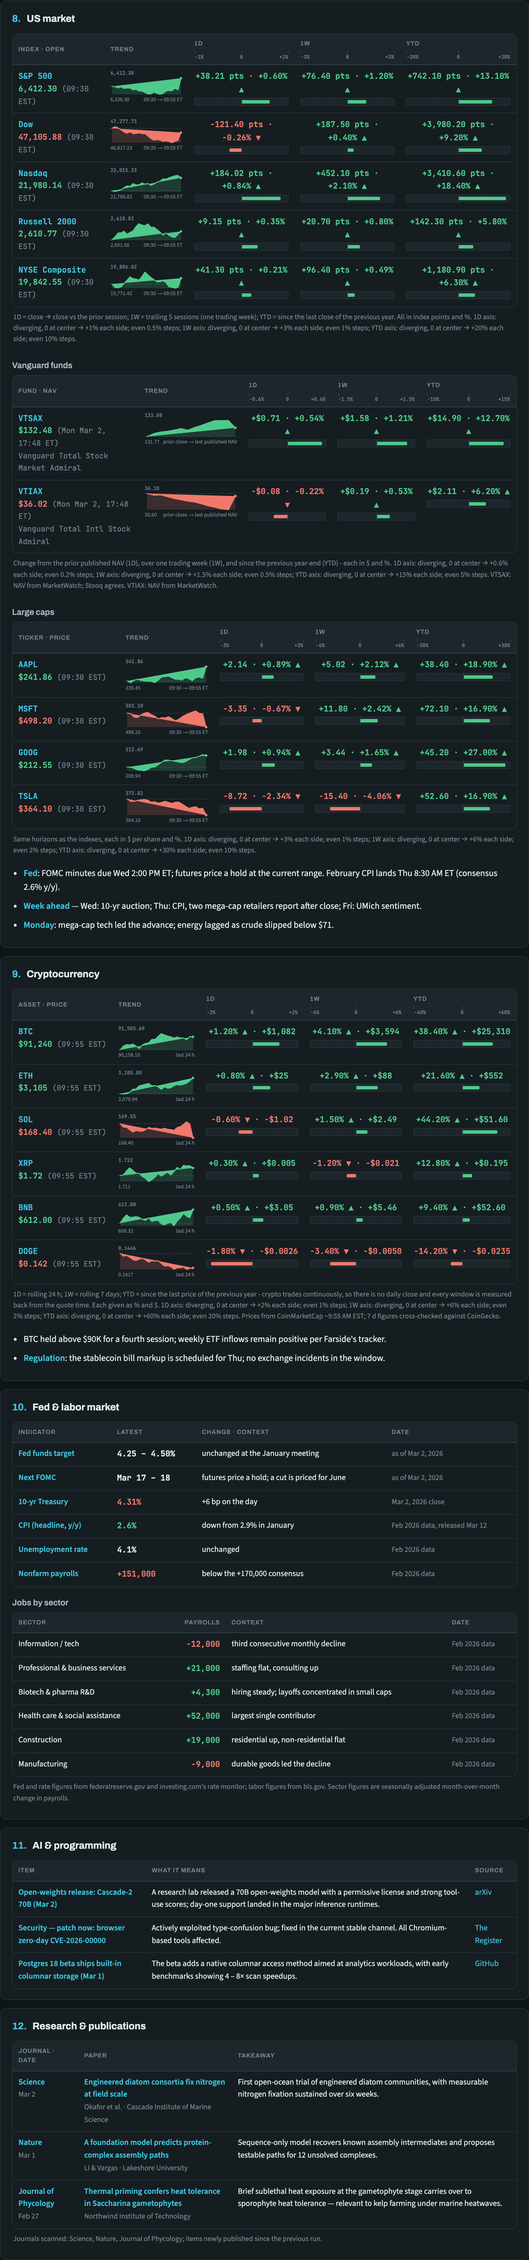
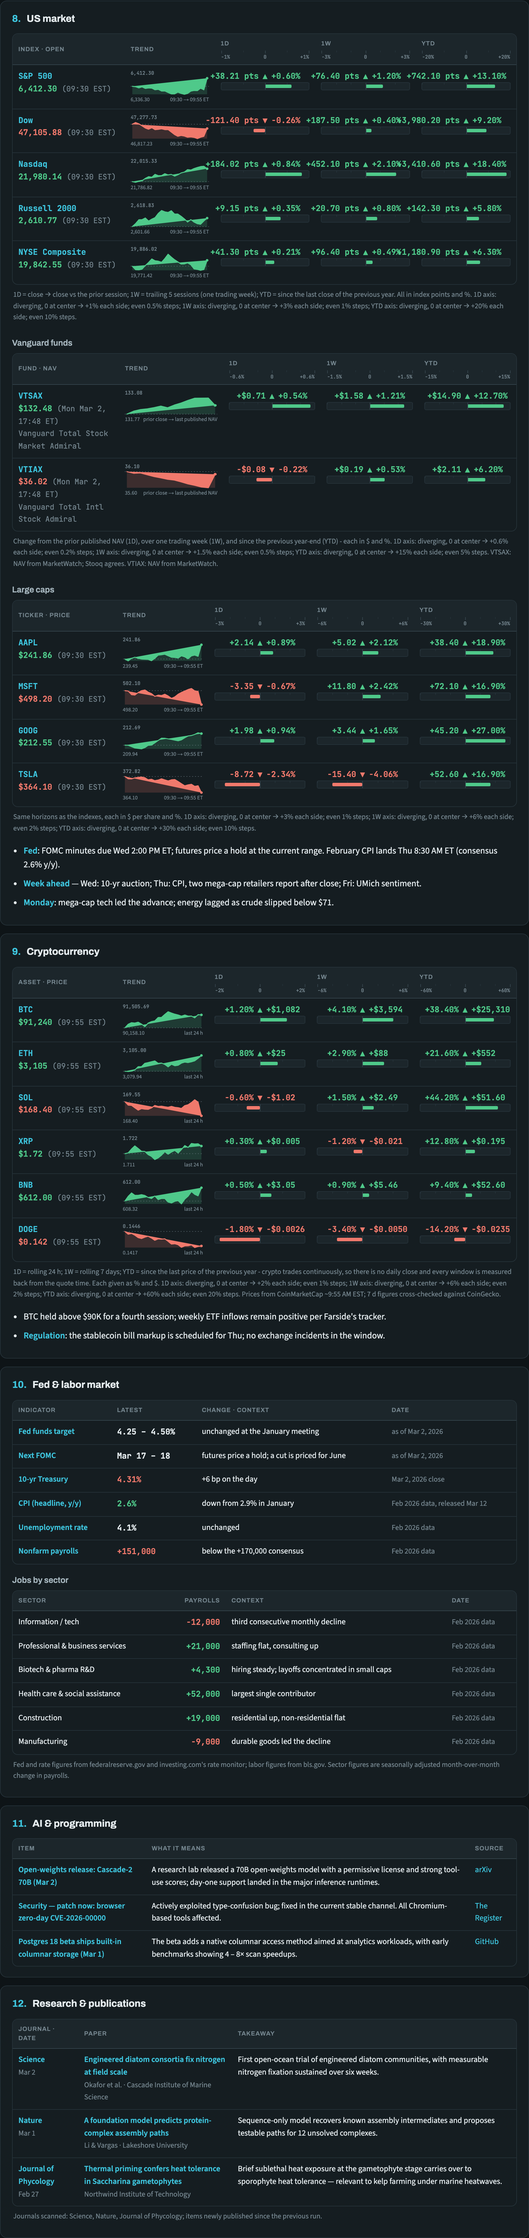
Put the arrow on the zero, and the column's name over its whole line
Three things the brief was asked for, each measured rather than eyeballed.

THE ARROW MOVES TO THE MIDDLE. "+38.21 pts · +0.60% ▲" put the one mark that
says WHICH WAY at the end of the text, wherever that happened to fall. It now
takes the separator's place — "+38.21 pts ▲ +0.60%" — pinned to 50%, the same
line the ruler's 0 and the bar's origin sit on, so direction and magnitude are
read from one column of pixels. The email lays the same figure out as three
cells, which is how it centres anything.

THE COLUMN'S NAME is centred over the LINE beneath it, not over the zero
inside that line. The line is not symmetric about its zero — "Out ←" is
shorter than "→ In, USD" — so a name centred on the zero reads as off-centre
against the text a person actually looks at, which is what it was reported as,
twice. The head is a centred flex line now and the name is centred over the
same box: 0.21px apart, measured over the glyphs. The ruler underneath still
puts its 0 exactly on the bars' origin; the head's own 0 is a reading aid and
sits where centring the line puts it.

THE SEVERITY STRIPE is inset 1px rather than 6, so the gap reads as a seam
between rows rather than a break, and the last one follows the table's own
rounded corner instead of stopping short of it.

The README gains the hovered trend as its own screenshot, since a still image
cannot otherwise show that the drawing answers a pointer.

diff --git a/brief/render.py b/brief/render.py
@@ -273,15 +273,24 @@ def detail_html_email(detail):
 
 
 def horizon_cell_file(amount, pct, axis, unit="", reverse=False):
-    """One horizon's figure centered over its bar, for the standalone file.
+    """One horizon's figure, with the direction arrow ON the axis's zero.
+
+    The two halves of the figure used to be joined by a middot and the arrow
+    tacked on the end, so the one mark that says WHICH WAY sat wherever the
+    text happened to end. It now takes the separator's place in the middle and
+    is pinned to 50% - the same line the ruler's 0 and the bars' origin sit on
+    - so the eye reads direction and magnitude from the same column of pixels.
 
     `reverse` puts the percentage first, which reads better where the absolute
     move is a price delta rather than index points.
     """
     cls = "dir-pos" if pct >= 0 else "dir-neg"
-    left = f"{pct_str(pct)} {arrow(pct)}" if reverse else f"{e(amount)}{' ' + unit if unit else ''}"
-    right = f"{e(amount)}" if reverse else f"{pct_str(pct)} {arrow(pct)}"
-    return (f'<span class="barfig"><span class="{cls} mono">{left} \u00b7 {right}</span></span>'
+    left = f"{pct_str(pct)}" if reverse else f"{e(amount)}{' ' + unit if unit else ''}"
+    right = f"{e(amount)}" if reverse else f"{pct_str(pct)}"
+    return (f'<span class="barfig trio {cls} mono">'
+            f'<span class="l">{left}</span>'
+            f'<span class="c">{arrow(pct)}</span>'
+            f'<span class="r">{right}</span></span>'
             + bar_div(pct, axis))
 
 
@@ -523,7 +532,10 @@ h3{{font-size:14.5px;font-weight:600;margin:16px 0 6px;color:var(--ink-2)}}
 /* The severity stripe is drawn INSIDE the cell, with a gap top and bottom, so
    two rows of the same severity do not fuse into one long bar. */
 tr.hp>td:first-child{{position:relative;padding-left:18px;--sev:var(--line-strong)}}
-tr.hp>td:first-child::before{{content:"";position:absolute;left:0;top:6px;bottom:6px;width:6px;background:var(--sev)}}
+tr.hp>td:first-child::before{{content:"";position:absolute;left:0;top:1px;bottom:1px;width:6px;background:var(--sev)}}
+/* the last stripe follows the wrapper's own corner, so the column of
+   colour ends where the table does rather than stopping short of it */
+tr.hp:last-child>td:first-child::before{{bottom:0;border-bottom-left-radius:9px}}
 tr.hp.warn>td:first-child{{--sev:var(--warning)}}
 tr.hp.neg>td:first-child{{--sev:var(--negative)}}
 tr.hp.info>td:first-child{{--sev:var(--accent)}}
@@ -580,15 +592,18 @@ td.num{{text-align:right;white-space:nowrap}}
 /* The name lives INSIDE the head, on the same 50% line as its "0", so no
    stylesheet can put them in boxes of different widths. text-indent gives back
    the trailing letter-space of the uppercase label. */
-.dhead.titled{{height:27px}}
-.dhead .t{{left:50%;transform:translateX(-50%);display:inline-block;letter-spacing:.08em;margin-right:-.08em;top:0}}
-.dhead.titled .l,.dhead.titled .c,.dhead.titled .r{{top:14px}}
+.dhead.titled{{height:27px;align-items:flex-end}}
+.dhead .t{{position:absolute;left:0;right:0;top:0;text-align:center;letter-spacing:.08em;text-indent:.04em}}
 /* The heading's "0" must sit exactly over the ruler's, so it takes the ruler's
    width rule rather than a fixed one: in a wider column a 150px heading centred
    its zero 65px left of the bars' zero, over negative territory. */
-.dhead{{position:relative;height:13px;width:100%;min-width:150px;max-width:280px}}
-.dhead span{{position:absolute;top:0;white-space:nowrap}}
-.dhead .l{{right:50%;margin-right:7px}} .dhead .c{{left:50%;transform:translateX(-50%)}} .dhead .r{{left:50%;margin-left:7px}}
+/* One centred line, with the name centred over the whole of it: the reader
+   reads "New this window" against "Out <- 0 -> In", not against the zero
+   inside it. The ruler underneath is what puts a 0 exactly on the bars'
+   origin, and it still does - this line's own 0 is a reading aid, and it sits
+   where centring the line puts it. */
+.dhead{{position:relative;height:13px;width:100%;min-width:150px;max-width:280px;display:flex;justify-content:center;gap:6px;white-space:nowrap}}
+.dhead span{{white-space:nowrap}}
 .daxis i{{position:absolute;top:0;height:3px;width:1px;background:var(--line)}}
 .daxis i.mj{{height:5px;background:var(--line-strong)}}
 .daxis span{{position:absolute;top:5px;font:500 8.5px 'JetBrains Mono',monospace;letter-spacing:0;text-transform:none;color:var(--ink-3);transform:translateX(-50%)}}
@@ -596,6 +611,13 @@ td.num{{text-align:right;white-space:nowrap}}
 .daxis-foot{{display:none}}
 /* the figure sits centered over the track, i.e. over the axis zero the bar grows from */
 .barfig{{display:block;text-align:center;margin-bottom:2px}}
+/* and its ARROW is what sits on the zero: the mark that says which way belongs
+   on the line the bar grows from, not at the end of the text. */
+.barfig.trio{{position:relative;height:19px;width:100%;min-width:150px;max-width:280px;margin:0 auto 2px}}
+.barfig.trio span{{position:absolute;top:0;white-space:nowrap}}
+.barfig.trio .l{{right:50%;margin-right:11px}}
+.barfig.trio .c{{left:50%;transform:translateX(-50%)}}
+.barfig.trio .r{{left:50%;margin-left:11px}}
 .cap{{font-size:12.5px;color:var(--ink-3);padding:8px 2px}}
 .tiles{{display:grid;grid-template-columns:repeat(3,1fr);gap:10px;margin-bottom:14px}}
 .tile{{background:var(--surface-2);border-radius:10px;padding:12px 14px}} .tile .v{{font-size:22px;font-weight:700;margin:2px 0}} .tile .d{{font-size:12.5px;color:var(--ink-3)}}
@@ -1343,8 +1365,8 @@ def large_caps_email():
     for tk, pr, a1, v1, a7, v7, ay, vy, *asof in STOCKS:
         ky = L["pos"] if vy >= 0 else L["neg"]
         rws.append([td(f'{lead(tk)}<br>{quote_cell_email(pr, v1, asof)}<br>{sp(f"YTD {pct_str(vy)} {arrow(vy)}", ky)}{spark_row_email(tk)}', mono=True),
-                    td(f'<div style="text-align:center">{sp(f"{e(a1)} {DOT} {pct_str(v1)} {arrow(v1)}", L["pos"] if v1 >= 0 else L["neg"])}</div>{em_bar_div(v1, STK_1D)}', mono=True),
-                    td(f'<div style="text-align:center">{sp(f"{e(a7)} {DOT} {pct_str(v7)} {arrow(v7)}", L["pos"] if v7 >= 0 else L["neg"])}</div>{em_bar_div(v7, STK_1W)}', mono=True)])
+                    td(em_trio(e(a1), v1, pct_str(v1), L["pos"] if v1 >= 0 else L["neg"]) + em_bar_div(v1, STK_1D), mono=True),
+                    td(em_trio(e(a7), v7, pct_str(v7), L["pos"] if v7 >= 0 else L["neg"]) + em_bar_div(v7, STK_1W), mono=True)])
     return h3("Large caps") + tbl([f'Ticker {DOT} price {DOT} YTD',
                                    th_axis("1D", pct_labels(STK_1D)), th_axis("1W", pct_labels(STK_1W))],
                                   rws, ["30%", "35%", "35%"])
@@ -1979,6 +2001,24 @@ def _em_bar(frac, col, right):
 
 def em_bar_div(pct, ax):
     return _em_bar(min(abs(pct) / ax[1], 1.0), L["pos"] if pct >= 0 else L["neg"], pct >= 0)
+def em_trio(left, pct, right, colour):
+    """The email's horizon figure, with the arrow over the axis's zero.
+
+    Three equal cells, the same shape as the axis header above it, so the
+    middle one - the arrow - lands on the same line as that header's "0" and
+    the centre of the bar below. The email cannot position anything, but it
+    can lay out a table.
+    """
+    # The parent cell already sets the mono family, so each cell here carries
+    # only what it must: the email is charged by the byte against a send-call
+    # ceiling, and three nested cells per figure is twelve per row.
+    c = f"padding:0;font-weight:600;color:{colour}"
+    return (f'<table width="100%" cellpadding="0" cellspacing="0"><tr>'
+            f'<td width="42%" align="right" style="{c}">{left}</td>'
+            f'<td width="16%" align="center" style="{c}">{arrow(pct)}</td>'
+            f'<td width="42%" align="left" style="{c}">{right}</td></tr></table>')
+
+
 def em_bar_money(amt, dirw, sign="", axis=None):
     side, cls = money_side(dirw, sign)
     col = {"pos": L["pos"], "neg": L["neg"], "neu": L["ink3"]}[cls]
@@ -2474,8 +2514,8 @@ def email_html(budget=None):
             for n, c, p1, v1, p7, v7, py, vy, *asof in MKT_ROWS:
                 ky = L["pos"] if vy >= 0 else L["neg"]
                 rws.append([td(f'{lead(n)}<br>{quote_cell_email(c, v1, asof)}<br>{sp(f"YTD {pct_str(vy)} {arrow(vy)}", ky)}{spark_row_email(n)}', mono=True),
-                            td(f'<div style="text-align:center">{sp(f"{e(p1)} pts · {pct_str(v1)} {arrow(v1)}", L["pos"] if v1 >= 0 else L["neg"])}</div>{em_bar_div(v1, MKT_24)}', mono=True),
-                            td(f'<div style="text-align:center">{sp(f"{e(p7)} pts · {pct_str(v7)} {arrow(v7)}", L["pos"] if v7 >= 0 else L["neg"])}</div>{em_bar_div(v7, MKT_7D)}', mono=True)])
+                            td(em_trio(f"{e(p1)} pts", v1, pct_str(v1), L["pos"] if v1 >= 0 else L["neg"]) + em_bar_div(v1, MKT_24), mono=True),
+                            td(em_trio(f"{e(p7)} pts", v7, pct_str(v7), L["pos"] if v7 >= 0 else L["neg"]) + em_bar_div(v7, MKT_7D), mono=True)])
             inner += tbl([f'Index · {quote_word().lower()} · YTD', th_axis("1D", pct_labels(MKT_24)), th_axis("1W", pct_labels(MKT_7D))], rws, ["30%", "35%", "35%"]) + cap(f"1D = close → close vs the prior session; 1W = trailing 5 sessions; YTD = since the previous year-end, shown as a figure because the email is capped at three columns. {axis_note(MKT_24, '1D axis')}; {axis_note(MKT_7D, '1W axis')}.")
         if FUNDS:
             rws = []
@@ -2483,8 +2523,8 @@ def email_html(budget=None):
             for tk, nm, nav, a1, v1, a7, v7, ay, vy, asof, note in FUNDS:
                 ky = L["pos"] if vy >= 0 else L["neg"]
                 rws.append([td(f'{lead(tk)}<br>{quote_cell_email(nav, v1, asof)}<br>{sp(f"YTD {pct_str(vy)} {arrow(vy)}", ky)}{spark_row_email(tk)}', mono=True),
-                            td(f'<div style="text-align:center">{sp(f"{e(a1)} · {pct_str(v1)} {arrow(v1)}", L["pos"] if v1 >= 0 else L["neg"])}</div>{em_bar_div(v1, FUND_1D)}', mono=True),
-                            td(f'<div style="text-align:center">{sp(f"{e(a7)} · {pct_str(v7)} {arrow(v7)}", L["pos"] if v7 >= 0 else L["neg"])}</div>{em_bar_div(v7, FUND_1W)}', mono=True)])
+                            td(em_trio(e(a1), v1, pct_str(v1), L["pos"] if v1 >= 0 else L["neg"]) + em_bar_div(v1, FUND_1D), mono=True),
+                            td(em_trio(e(a7), v7, pct_str(v7), L["pos"] if v7 >= 0 else L["neg"]) + em_bar_div(v7, FUND_1W), mono=True)])
             inner += h3("Vanguard funds") + tbl(['Fund · NAV · YTD', th_axis("1D", pct_labels(FUND_1D)), th_axis("1W", pct_labels(FUND_1W))], rws, ["30%", "35%", "35%"]) + cap("Change from the prior published NAV (1D), over one trading week (1W), and since the previous year-end (YTD). " + " ".join(f"{tk}: {note}" for tk, nm, nav, a1, v1, a7, v7, ay, vy, asof, note in FUNDS))
         if STOCKS:
             inner += large_caps_email()
@@ -2500,8 +2540,8 @@ def email_html(budget=None):
             for n, pr, v1, a1, v7, a7, vy, ay, *asof in CRYPTO_ROWS:
                 ky = L["pos"] if vy >= 0 else L["neg"]
                 rws.append([td(f'{lead(n)}<br>{quote_cell_email(pr, v1, asof)}<br>{sp(f"YTD {pct_str(vy)} {arrow(vy)}", ky)}{spark_row_email(n)}', mono=True),
-                            td(f'<div style="text-align:center">{sp(f"{pct_str(v1)} {arrow(v1)} · {e(a1)}", L["pos"] if v1 >= 0 else L["neg"])}</div>{em_bar_div(v1, CRY_24)}', mono=True),
-                            td(f'<div style="text-align:center">{sp(f"{pct_str(v7)} {arrow(v7)} · {e(a7)}", L["pos"] if v7 >= 0 else L["neg"])}</div>{em_bar_div(v7, CRY_7D)}', mono=True)])
+                            td(em_trio(pct_str(v1), v1, e(a1), L["pos"] if v1 >= 0 else L["neg"]) + em_bar_div(v1, CRY_24), mono=True),
+                            td(em_trio(pct_str(v7), v7, e(a7), L["pos"] if v7 >= 0 else L["neg"]) + em_bar_div(v7, CRY_7D), mono=True)])
             inner += tbl(['Asset · price · YTD', th_axis("1D", pct_labels(CRY_24)), th_axis("1W", pct_labels(CRY_7D))], rws, ["30%", "35%", "35%"]) + cap(f"1D = rolling 24 h; 1W = rolling 7 days; YTD = since the previous year-end — crypto trades continuously, so every window runs back from the quote time. {axis_note(CRY_24, '1D axis')}; {axis_note(CRY_7D, '1W axis')}. {CRYPTO_NOTE}")
         if CRYPTO_BULLETS:
             inner += '<ul style="margin:8px 0 0;padding-left:20px">' + "".join(em_li(b) for b in CRYPTO_BULLETS) + "</ul>"

diff --git a/tests/test_rendering.py b/tests/test_rendering.py
@@ -109,11 +109,15 @@ class _BrowserCase(unittest.TestCase):
           const z = zero.getBoundingClientRect();
           const hz = table.querySelector('th .dhead .c');
           const h = hz ? hz.getBoundingClientRect() : null;
-          const lb = table.querySelector('th .dcol .dlabel');
+          const lb = table.querySelector('th .dhead .t');
+          const ll = table.querySelector('th .dhead .l');
+          const rr = table.querySelector('th .dhead .r');
           const l = lb ? lb.getBoundingClientRect() : null;
           return {axis: box(ax), zeroCentre: z.left + z.width / 2,
                   headZero: h ? h.left + h.width / 2 : null,
                   labelCentre: l ? l.left + l.width / 2 : null,
+                  lineCentre: (ll && rr) ? (ll.getBoundingClientRect().left
+                                            + rr.getBoundingClientRect().right) / 2 : null,
                   bars: bars.map(b => {
                     const f = b.querySelector('.fill').getBoundingClientRect();
                     return {box: box(b), fill: [f.left, f.right],
@@ -129,15 +133,17 @@ class _BrowserCase(unittest.TestCase):
         # text its glyphs landed 30px left of the bars' zero, so the word "0"
         # sat over negative territory while the ruler beneath it was correct.
         # Checking only the ruler is what let that ship.
-        self.assertIsNotNone(r["headZero"],
-                             f"{what}: the heading must pin its own '0' to the axis")
-        self.assertAlmostEqual(r["headZero"], ax_c, delta=1.0,
-                               msg=f"{what}: the heading's '0' is not over the bars' zero")
-        # A labelled column centres its label on the same zero: left-aligned in
-        # the cell it drifted wherever the column was wide.
-        if r["labelCentre"] is not None:
-            self.assertAlmostEqual(r["labelCentre"], ax_c, delta=1.5,
-                                   msg=f"{what}: the column label is not centred on the axis")
+        # The heading line is centred AS A LINE - the reader reads "New this
+        # window" against the whole of "Out <- 0 -> In", not against the zero
+        # inside it - so its own 0 lands near the axis zero rather than on it.
+        # The ruler's 0, checked above, is what sits exactly on the bars' origin.
+        self.assertIsNotNone(r["headZero"], f"{what}: the heading must carry its own '0'")
+        self.assertAlmostEqual(r["headZero"], ax_c, delta=10.0,
+                               msg=f"{what}: the heading's '0' is nowhere near the axis")
+        # A labelled column centres its label over the heading line beneath it.
+        if r["labelCentre"] is not None and r["lineCentre"] is not None:
+            self.assertAlmostEqual(r["labelCentre"], r["lineCentre"], delta=1.5,
+                                   msg=f"{what}: the column label is not centred over its line")
         for n, bar in enumerate(r["bars"]):
             b_l, b_r, b_c = bar["box"]
             self.assertAlmostEqual(b_l, ax_l, delta=1.0,
@@ -505,16 +511,16 @@ if __name__ == "__main__":
     unittest.main(verbosity=2)
 
 
-class TestHeadingSitsOnItsZero(_BrowserCase):
-    """The money column's name describes the zero, so it sits over the zero.
+class TestHeadingSitsOverItsLine(_BrowserCase):
+    """The money column's name is read against the LINE under it.
 
-    Reported twice as still off. It is now positioned absolutely at the same
-    50% line the ruler puts its 0 on, rather than centred inside a box whose
-    width need not match the ruler's, and the trailing letter-space of the
-    uppercase label is given back with text-indent.
+    It was centred on the zero inside that line for a while, which looked off
+    precisely because the line is not symmetric about its zero: "Out <-" is
+    shorter than "-> In". The name is centred over the line as a whole now,
+    and the ruler below still puts a 0 exactly on the bars' origin.
     """
 
-    def test_the_labels_glyphs_centre_on_the_zero_not_just_its_box(self):
+    def test_the_labels_glyphs_centre_on_the_whole_line_below_it(self):
         """Measured over the text's own rects rather than the element's, since
         the gap between the two is exactly what kept drifting."""
         for width in (1840, 1280, 900):
@@ -526,15 +532,16 @@ class TestHeadingSitsOnItsZero(_BrowserCase):
               const r = document.createRange(); r.selectNodeContents(t);
               const rects = [...r.getClientRects()];
               const glyphC = (rects[0].left + rects[rects.length - 1].right) / 2;
-              const z = th.querySelector('.dhead .c').getBoundingClientRect();
-              return glyphC - (z.left + z.width / 2);
+              const l = th.querySelector('.dhead .l').getBoundingClientRect();
+              const rr = th.querySelector('.dhead .r').getBoundingClientRect();
+              return glyphC - (l.left + rr.right) / 2;
             }""")
             self.assertIsNotNone(d, f"no titled money column at {width}px")
             self.assertLessEqual(abs(d), 0.5,
-                                 f"the label's glyphs are {d:.2f}px off the zero @{width}px")
+                                 f"the label's glyphs are {d:.2f}px off the line @{width}px")
             pg.close()
 
-    def test_every_labelled_money_column_centres_on_its_zero(self):
+    def test_every_labelled_money_column_centres_on_its_line(self):
         for width in (1840, 1280, 1000, 820):
             pg = self._page(width)
             rows = pg.evaluate("""() => {
@@ -543,22 +550,26 @@ class TestHeadingSitsOnItsZero(_BrowserCase):
                 const lbl = th.querySelector('.dhead .t');
                 if (!lbl) continue;
                 const head = th.querySelector('.dhead .c');
+                const l = th.querySelector('.dhead .l');
+                const rr = th.querySelector('.dhead .r');
                 const axis = [...th.querySelectorAll('.daxis span')]
                                .find(s => s.textContent.trim() === '0');
-                if (!head || !axis) continue;
+                if (!head || !axis || !l || !rr) continue;
                 const c = el => { const r = el.getBoundingClientRect();
                                   return r.left + r.width / 2; };
+                const lineC = (l.getBoundingClientRect().left
+                               + rr.getBoundingClientRect().right) / 2;
                 out.push({name: lbl.textContent.trim(),
-                          dLabel: c(lbl) - c(axis), dHead: c(head) - c(axis)});
+                          dLabel: c(lbl) - lineC, dHead: c(head) - c(axis)});
               }
               return out;
             }""")
             self.assertTrue(rows, f"no labelled money column at {width}px")
             for r in rows:
                 self.assertLessEqual(abs(r["dLabel"]), 1.0,
-                                     f"{r['name']!r} is {r['dLabel']:.1f}px off its zero @{width}px")
-                self.assertLessEqual(abs(r["dHead"]), 1.0,
-                                     f"the head's own 0 is {r['dHead']:.1f}px off @{width}px")
+                                     f"{r['name']!r} is {r['dLabel']:.1f}px off its own line @{width}px")
+                self.assertLessEqual(abs(r["dHead"]), 10.0,
+                                     f"the head's own 0 is {r['dHead']:.1f}px from the ruler's @{width}px")
             pg.close()
 
 
@@ -621,5 +632,8 @@ class TestTrendReadoutInTheBrowser(_BrowserCase):
         }""")
         self.assertTrue(gaps, "no high-priority rows to measure")
         for gap in gaps:
-            self.assertGreaterEqual(gap, 8, f"stripes are {gap:.1f}px apart — they read as one bar")
+            self.assertGreaterEqual(gap, 1.5,
+                                    f"stripes are {gap:.1f}px apart — they read as one bar")
+            self.assertLessEqual(gap, 6,
+                                 f"stripes are {gap:.1f}px apart — that reads as a break, not a seam")
         pg.close()

diff --git a/docs/render_screenshots.py b/docs/render_screenshots.py
@@ -4,7 +4,7 @@
 Run from the repo root after any design-affecting change (see README):
     pip install playwright   # Chromium must be available to Playwright
     python3 docs/render_screenshots.py
-Writes docs/mock-brief-{top,jobs,sections,usps,packages,markets}.png (all dark mode).
+Writes docs/mock-brief-{top,jobs,sections,travel,usps,packages,markets,trend}.png (dark mode).
 """
 import asyncio, hashlib, os, re, subprocess, sys, tempfile
 
@@ -128,10 +128,32 @@ async def main():
                     break
             _require("markets", grid)
             await grid.screenshot(path=os.path.join(DOCS, "mock-brief-markets.png"))
+            # The trend column answers a pointer, which a still image cannot
+            # show by itself - so hover one first and capture the answer: the
+            # rule, the marked point and the value under the cursor.
+            spark = await pg.query_selector(".spark[data-series]")
+            _require("trend", spark)
+            await spark.scroll_into_view_if_needed()
+            await pg.wait_for_timeout(150)
+            box = await spark.bounding_box()
+            await pg.mouse.move(box["x"] + box["width"] * 0.58, box["y"] + box["height"] * 0.4)
+            await pg.wait_for_timeout(200)
+            live = await pg.evaluate("() => document.querySelector('.spark').classList.contains('live')")
+            if not live:
+                raise SystemExit("render_screenshots: the trend readout did not open on hover - "
+                                 "capturing it dark would document a feature that looks broken")
+            rows = await pg.query_selector_all("tr")
+            row = None
+            for r in rows:
+                if "S&P 500" in (await r.inner_text()):
+                    row = r
+                    break
+            _require("trend row", row)
+            await row.screenshot(path=os.path.join(DOCS, "mock-brief-trend.png"))
             await b.close()
         # inside the temp dir, which is removed on exit from this block
         _write_lock(page_html)
-    print("wrote mock-brief-top/jobs/sections/travel/usps/packages/markets PNGs (dark mode)")
+    print("wrote mock-brief-top/jobs/sections/travel/usps/packages/markets/trend PNGs (dark mode)")
     print(f"wrote {LOCK} — CI fails if the UI changes without regenerating these")
 
 asyncio.run(main())

diff --git a/tests/test_render_units.py b/tests/test_render_units.py
@@ -1870,20 +1870,27 @@ class TestSeverityStripeIsOneBarPerRow(unittest.TestCase):
         css = f.split("<style>")[1].split("</style>")[0]
         rule = [r for r in css.split("}") if "tr.hp>td:first-child::before" in r][0]
         self.assertNotIn("border-radius", rule, "square ends, not rounded")
-        self.assertIn("top:6px", rule)
-        self.assertIn("bottom:6px", rule)
+        self.assertIn("top:1px", rule)
+        self.assertIn("bottom:1px", rule)
+        # and the last one follows the wrapper's own corner rather than
+        # stopping short of it
+        css_last = [r for r in css.split("}") if "tr.hp:last-child>td:first-child::before" in r][0]
+        self.assertIn("bottom:0", css_last)
+        self.assertIn("border-bottom-left-radius:9px", css_last)
 
-    def test_the_labels_box_excludes_its_trailing_letter_space(self):
-        """Centring a box that carries the trailing letter-space of its last
-        character leaves the glyphs half a space off - by however much the
-        engine happens to round it."""
+    def test_the_label_is_centred_over_the_whole_head_line(self):
+        """The line is not symmetric about its zero — "Out ←" is shorter than
+        "→ In" — so a name centred on that zero reads as off-centre against
+        the line a person actually looks at."""
         f, _em, _tx = render_all(payload())
         css = f.split("<style>")[1].split("</style>")[0]
-        rule = [r for r in css.split("}") if ".dhead .t{" in r][0]
-        self.assertIn("display:inline-block", rule)
-        self.assertIn("margin-right:-.08em", rule)
-        self.assertIn("left:50%", rule)
-        self.assertIn("translateX(-50%)", rule)
+        head = [r for r in css.split("}") if ".dhead{" in r][0]
+        self.assertIn("display:flex", head, "the line is centred as a line")
+        self.assertIn("justify-content:center", head)
+        title = [r for r in css.split("}") if ".dhead .t{" in r][0]
+        self.assertIn("left:0", title)
+        self.assertIn("right:0", title)
+        self.assertIn("text-align:center", title)
 
     def test_the_row_itself_draws_no_border(self):
         """A 4px border on the row ran the full height behind the inset stripe,

diff --git a/tests/test_email_brief.py b/tests/test_email_brief.py
@@ -121,10 +121,14 @@ class TestGeneratorOutputs(unittest.TestCase):
                 self.assertNotIn(word, out, f"{name} still spells out {word.strip()!r}")
         self.assertNotIn("\u25b2", tx, "plain text has no color, so it keeps words")
         self.assertIn("Up", tx); self.assertIn("Down", tx)
+        # the arrow sits between the two halves of a figure now, on the line
+        # the bar grows from, so it is matched there rather than at the end
+        self.assertRegex(page, r"\u25b2</span><span class=\"r\">\+\d")
         # the sign still accompanies every figure, so direction survives without
         # color or glyph rendering
-        self.assertRegex(page, r"\+\d+\.\d{2}% \u25b2")
-        self.assertRegex(page, r"\u2212\d+\.\d{2}% \u25bc")
+        self.assertRegex(page, r"\u25bc</span><span class=\"r\">\u2212\d")
+        self.assertRegex(page, r'<span class="r">\+\d+\.\d{2}%</span>')
+        self.assertRegex(page, r'<span class="r">\u2212\d+\.\d{2}%</span>')
 
     def test_fund_rows_carry_change_bars_on_even_axes(self):
         page, em = self.r["page"], self.r["email"]

diff --git a/README.md b/README.md
@@ -36,9 +36,15 @@ Package tracking — carrier, tracking number (or the link/order reference to qu
 
 ![Mock brief — package tracking section](docs/mock-brief-packages.png)
 
-The researched cards — US indexes, your fund tickers and crypto, each carrying **1D** and **1W** columns on their own even axes, with the figure centered over the zero the bar grows from:
+The researched cards — US indexes, your fund tickers and crypto. Each row names its figure and the time it was taken, draws the session as a small red/green trend, and carries **1D**, **1W** and **YTD** columns on their own even axes, each figure straddling the zero its bar grows from, with the direction arrow on that zero:
 
 ![Mock brief — US market and cryptocurrency sections](docs/mock-brief-markets.png)
+
+**The trend answers a pointer.** Each row's sparkline is drawn from an intraday series the run collects (the payload's `SPARKS`), scaled to that row alone, with a dashed rule at the value it opened from. Hover anywhere along it on the page and a rule marks that moment and prints what the figure was worth — here, mid-session, 6,338.17 on a line that opened at 6,336.30 and stood at 6,412.30 when the brief was built:
+
+![Mock brief — hovering a trend line prints the value at that moment](docs/mock-brief-trend.png)
+
+That is the whole of the page's interactivity, and the only script in the file; with scripting off it is the same drawing, minus the readout. The email cannot draw at all — the mail path strips images and SVG — so there the same shape arrives as block characters: `▁▃▅▄▇█`.
 
 > **Maintenance rule:** these screenshots are generated from [`sample_payload.json`](sample_payload.json) by [`docs/render_screenshots.py`](docs/render_screenshots.py). Whenever a PR changes anything the brief renders, regenerate them (`python3 docs/render_screenshots.py`; captures in dark mode) and commit the updated PNGs. **This is enforced, not a convention:** the script records a fingerprint of the rendered HTML in `docs/screenshots.lock`, and a test fails CI if the current render no longer matches it — so a UI change cannot merge while the README still shows the old one. It fingerprints the HTML rather than the pixels because font rasterisation differs between macOS and the Linux CI runner.
 >
